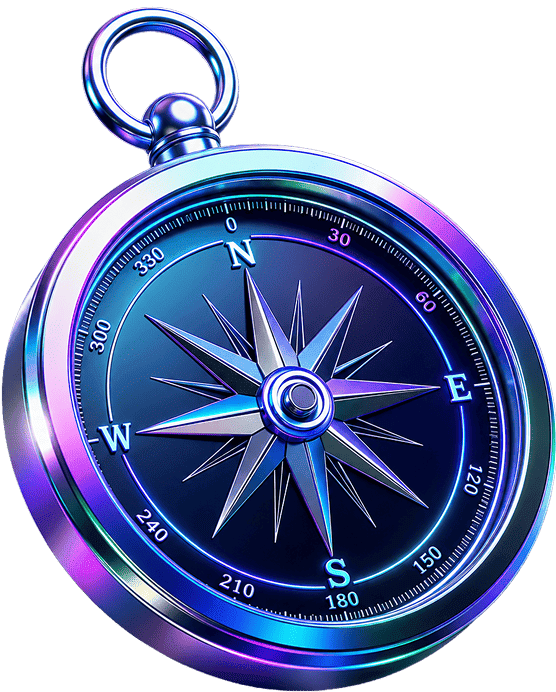
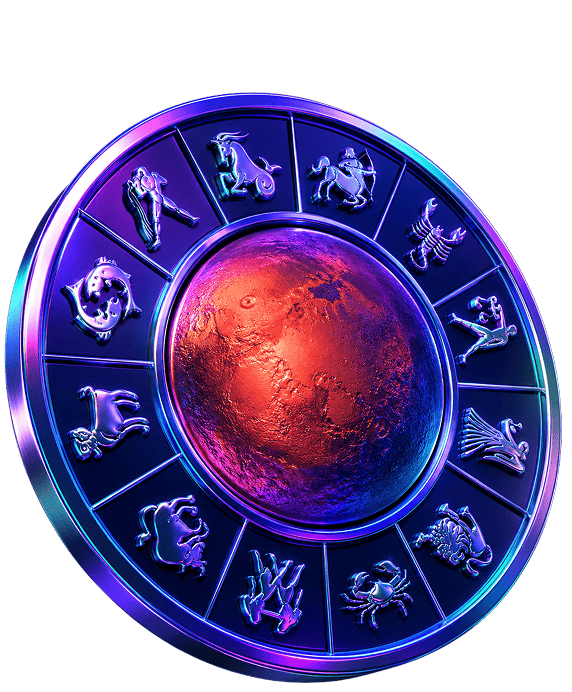
Add new assets and update translations for greetings and features

diff --git a/src/features/explore/pages/tarot-reading/components/TarotCards.tsx b/src/features/explore/pages/tarot-reading/components/TarotCards.tsx
@@ -1,4 +1,4 @@
-import { useCallback, useState, useMemo } from "react";
+import { useCallback, useState, useMemo, useEffect } from "react";
 import { useTranslation } from "react-i18next";
 import { useNavigate, useParams } from "react-router-dom";
 import { motion, AnimatePresence } from "framer-motion";
@@ -32,9 +32,14 @@ const TarotCards = () => {
 
   const { data: rawCards, isLoading } = useGetAllTarotCardsQuery();
 
+  useEffect(() => {
+    setCardResult(null);
+    setYesOrNoResult(null);
+  }, [id]);
+
   // 1. Shuffle the cards array completely on load (Fisher-Yates Shuffle)
   const shuffledCards = useMemo(() => {
-    if (!rawCards) return [];
+    if (!rawCards || !Array.isArray(rawCards)) return [];
     const array = [...rawCards];
     for (let i = array.length - 1; i > 0; i--) {
       const j = Math.floor(Math.random() * (i + 1));
@@ -47,38 +52,50 @@ const TarotCards = () => {
   const initialOffsets = useMemo(() => {
     if (!shuffledCards.length) return [];
     return shuffledCards.map(() => ({
-      x: (Math.random() - 0.5) * 300, // Random X offset
-      y: (Math.random() - 0.5) * 400, // Random Y offset
-      rotate: (Math.random() - 0.5) * 90, // Random rotation (-45 deg to 45 deg)
+      x: (Math.random() - 0.5) * 300,
+      y: (Math.random() - 0.5) * 400,
+      rotate: (Math.random() - 0.5) * 90,
       scale: 0.5 + Math.random() * 0.5,
     }));
   }, [shuffledCards]);
 
   const handleSelect = useCallback(
     async (card: TarotCard) => {
+      if (isSelecting) return;
+
+      setIsSelecting(true);
       try {
-        setIsSelecting(true);
         if (id === "1") {
           const response = await GetTarotCardResult({
             card_name: card.name,
             lang: currentLanguage,
           });
-          setCardResult(response);
+
+          if (response) {
+            setCardResult(response);
+          } else {
+            throw new Error("Received empty response from GetTarotCardResult");
+          }
         } else {
           const response = await GetYesOrNoResult({
             card_name: card.name,
             lang: currentLanguage,
           });
-          setYesOrNoResult(response);
+
+          if (response) {
+            setYesOrNoResult(response);
+          } else {
+            throw new Error("Received empty response from GetYesOrNoResult");
+          }
         }
       } catch (error) {
         console.error("Failed to fetch tarot result:", error);
-        navigate("/tarot-reading")
+        navigate("/tarot-reading", { replace: true });
       } finally {
         setIsSelecting(false);
       }
     },
-    [currentLanguage, id]
+    [currentLanguage, id, isSelecting, navigate]
   );
 
   if (isLoading || isSelecting) {
@@ -116,7 +133,6 @@ const TarotCards = () => {
                     type="button"
                     onClick={() => handleSelect(card)}
                     className="cursor-pointer focus:outline-none"
-                    /* Start scattered from random offsets */
                     initial={{
                       x: offset.x,
                       y: offset.y,
@@ -124,7 +140,6 @@ const TarotCards = () => {
                       scale: offset.scale,
                       opacity: 0,
                     }}
-                    /* Collapse into shuffled grid position */
                     animate={{
                       x: 0,
                       y: 0,
@@ -132,12 +147,11 @@ const TarotCards = () => {
                       scale: 1,
                       opacity: 1,
                     }}
-                    /* Smooth spring physics collapse effect */
                     transition={{
                       type: "spring",
                       stiffness: 80,
                       damping: 12,
-                      delay: index * 0.015, // Staggered arrival for collapse feel
+                      delay: index * 0.015,
                     }}
                     whileHover={{
                       scale: 1.08,

diff --git a/src/features/home/components/HomeGreetings.tsx b/src/features/home/components/HomeGreetings.tsx
@@ -50,15 +50,19 @@ const HomeGreetings = ({
   const greeting = useMemo(() => {
     const hour = new Date().getHours();
 
-    if (hour < 12) {
+    if (hour >= 5 && hour < 12) {
       return t("home.morning");
     }
 
-    if (hour < 18) {
+    if (hour >= 12 && hour < 18) {
       return t("home.afternoon");
     }
 
-    return t("home.evening");
+    if (hour >= 18 && hour < 21) {
+      return t("home.evening");
+    }
+
+    return t("home.night");
   }, [t]);
 
   return (
@@ -68,7 +72,7 @@ const HomeGreetings = ({
         backgroundImage: `url(${GreetingBg})`,
       }}
     >
-      <div>
+      <div className="w-[50%]">
         {loading ? (
           /* Skeleton for Greetings Content */
           <div className="space-y-2 py-1">
@@ -88,9 +92,6 @@ const HomeGreetings = ({
           /* Actual Greetings Content */
           <>
             <h2 className="text-3xl font-header text-white font-light leading-tight">
-              {t("home.good")}
-            </h2>
-            <h2 className="text-3xl font-header text-white font-light leading-tight">
               {greeting},
             </h2>
             <p className="text-xl pt-2 text-white font-semibold capitalize font-body-content tracking-wide">
@@ -103,7 +104,7 @@ const HomeGreetings = ({
       </div>
 
       {/* Right side: Zodiac Character / Skeleton */}
-      <div className="absolute right-2 -bottom-9">
+      <div className="absolute right-0 -bottom-9 w-[50%]">
         {loading ? (
           <div className="h-48 w-32 animate-pulse rounded-xl bg-white/20" />
         ) : (

diff --git a/src/features/ashrams/components/SubscriptionModal.tsx b/src/features/ashrams/components/SubscriptionModal.tsx
@@ -12,6 +12,7 @@ import { useState } from "react";
 import { useNavigate } from "react-router-dom";
 import { Capacitor } from "@capacitor/core";
 import { Checkout } from "capacitor-razorpay";
+import { useAuthStore } from "@/store/authStore";
 
 interface SubscriptionModalProps {
   isOpen: boolean;
@@ -32,6 +33,7 @@ export default function SubscriptionModal({
 }: SubscriptionModalProps) {
   const navigate = useNavigate();
   const queryClient = useQueryClient();
+  const phoneNumber = useAuthStore((state) => state.phoneNumber);
   const { data: userDetails } = useGetUserDetailsQuery();
   const [paymentModal, setPaymentModal] = useState<{
     open: boolean;
@@ -76,6 +78,8 @@ export default function SubscriptionModal({
             description: "Ashram Premium",
             prefill: {
               name: userDetails?.name ?? "",
+              email: "zodimithra@gmail.com",
+              contact: phoneNumber,
             },
             theme: {
               color: "#2A0B07",
@@ -160,6 +164,8 @@ export default function SubscriptionModal({
 
           prefill: {
             name: userDetails?.name ?? "",
+            email: "zodimithra@gmail.com",
+            contact: phoneNumber,
           },
 
           theme: {

diff --git a/src/features/premium/PremiumScreen.tsx b/src/features/premium/PremiumScreen.tsx
@@ -26,6 +26,7 @@ import { useState } from "react";
 import { useNavigate } from "react-router-dom";
 import { Capacitor } from "@capacitor/core";
 import { Checkout } from "capacitor-razorpay";
+import { useAuthStore } from "@/store/authStore";
 
 const features = [
   {
@@ -78,6 +79,7 @@ const benefits = [
 const PremiumScreen = () => {
   const navigate = useNavigate();
   const queryClient = useQueryClient();
+  const phoneNumber = useAuthStore((state) => state.phoneNumber);
   const [paymentModal, setPaymentModal] = useState<{
     open: boolean;
     status: "success" | "failed";
@@ -122,6 +124,8 @@ const PremiumScreen = () => {
             description: "Premium Recharge",
             prefill: {
               name: userDetails?.name ?? "",
+              email: "zodimithra@gmail.com",
+              contact: phoneNumber
             },
             theme: {
               color: "#2A0B07",
@@ -177,6 +181,8 @@ const PremiumScreen = () => {
 
           prefill: {
             name: userDetails?.name ?? "",
+            email: "zodimithra@gmail.com",
+            contact: phoneNumber
           },
 
           theme: {

diff --git a/src/features/home/components/HomeHeader.tsx b/src/features/home/components/HomeHeader.tsx
@@ -71,7 +71,7 @@ const HomeHeader = ({ loading }: HomeHeaderProps) => {
           <button
             type="button"
             aria-label="Notifications"
-            className="rounded-md p-2 transition-colors hover:bg-gray-100 focus:outline-none focus:ring-2 focus:ring-gray-300"
+            className="rounded-md p-2"
           >
             <Bell className="h-6 w-6 text-black" strokeWidth={1.8} />
           </button>
@@ -81,7 +81,7 @@ const HomeHeader = ({ loading }: HomeHeaderProps) => {
             type="button"
             aria-label="Language"
             onClick={() => navigate("/languages")}
-            className="rounded-md p-2 transition-colors hover:bg-gray-100 focus:outline-none focus:ring-2 focus:ring-gray-300"
+            className="rounded-md p-2"
           >
             <Languages className="h-6 w-6 text-black" strokeWidth={1.8} />
           </button>

diff --git a/src/features/profile/ProfileScreen.tsx b/src/features/profile/ProfileScreen.tsx
@@ -41,7 +41,7 @@ const MenuItem: React.FC<MenuItemProps> = ({
       <div className="flex items-center gap-4">
         <div className={danger ? "text-red-600" : "text-primary"}>{icon}</div>
         <span
-          className={`font-medium font-body ${danger ? "text-red-600" : "text-text-primary"}`}
+          className={`font-medium text-sm font-body ${danger ? "text-red-600" : "text-text-primary"}`}
         >
           {label}
         </span>

diff --git a/src/features/explore/pages/free-kundli/FreeKundli.tsx b/src/features/explore/pages/free-kundli/FreeKundli.tsx
@@ -1,5 +1,5 @@
 import BannerImage from "@/assets/banner/bg-banner.jpg";
-import RightImage from "@/assets/banner/love-calculator.png";
+import RightImage from "@/assets/banner/kundli-image.png";
 import Banner from "@/components/common/Banner";
 import BodyLayout from "@/components/layout/BodyLayout";
 import Header from "@/components/layout/Header";

diff --git a/src/features/explore/pages/vastu-compass/VastuCompass.tsx b/src/features/explore/pages/vastu-compass/VastuCompass.tsx
@@ -1,5 +1,5 @@
 import BannerImage from "@/assets/banner/bg-banner.jpg";
-import RightImage from "@/assets/banner/mangal-dosh.png";
+import RightImage from "@/assets/banner/compass.png";
 import Banner from "@/components/common/Banner";
 import BodyLayout from "@/components/layout/BodyLayout";
 import Header from "@/components/layout/Header";

diff --git a/src/features/home/components/HomeTools.tsx b/src/features/home/components/HomeTools.tsx
@@ -8,7 +8,7 @@ const HomeTools = () => {
 
   const tools = [
     { image: HealingImg, label: "home.healing" },
-    { image: AffulenceImg, label: "home.affulence" },
+    { image: AffulenceImg, label: "home.affluence" },
     { image: RitualImg, label: "home.ritual" },
   ];
 
